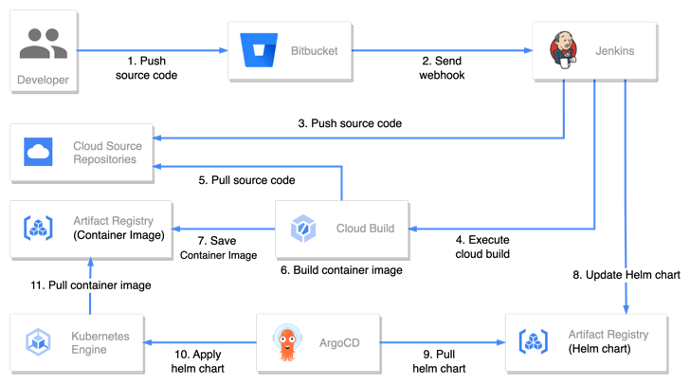
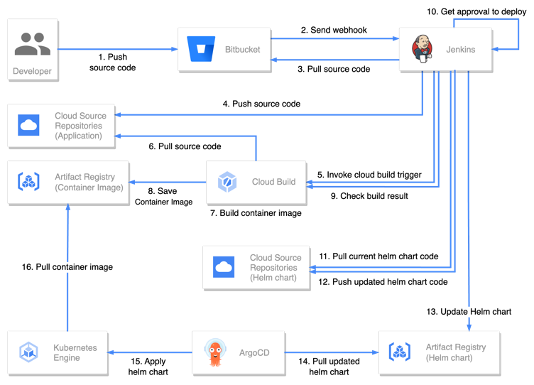
[ADD] README 최초 작성

Changed region(s): [[0.0, 0.0, 0.9888, 0.9974]]

diff --git a/README.md b/README.md
@@ -1,0 +1,101 @@
+# 위메프 CI/CD 파이프라인 및 모니터링 도구 PoC
+
+위메프 전체 시스템을 Google Cloud Platform으로 마이그레이션하는 프로젝트가 진행됨에 따라 클라우드의 이점을 살리기 위해 CI/CD를 도입하기로 했습니다.  
+기존에는 별다른 CI/CD 파이프라인 없이 개발팀에서 새로운 릴리즈 개발을 완료하면 운영팀이 배포하는 방식으로 배포했으나, 앞으로는 개발팀에서 Git 레포지토리에 소스를 push하면 빌드, 테스트, 승인 후 배포까지 자동화하는 방식으로 CI/CD 파이프라인을 구축하기로 결정되었습니다.  
+CI/CD파이프라인 구축을 위해 어떤 도구를 사용할 지 비교하기 위해 다양한 도구를 이용해 PoC를 진행하기로 했습니다.  
+
+---
+
+## Tools
+- Jenkins
+- Cloud Build
+- Artifact Registry
+- ArgoCD
+- GMP(Google Managed Prometheus)
+- Grafana Loki
+- Grafana
+
+각 도구를 선택한 이유는 아래와 같습니다.  
+Jenkins: 컨테이너 환경에 최적화된 다른 CI 도구도 많기 때문에 Jenkins를 사용한 부분에서 의문을 느낄 수 있습니다. 여기서 Jenkins를 선택한 이유는 현재 개발자들이 Jenkins를 이용하고 있고 익숙하기 때문입니다. 일단 Jenkins를 이용하고 추후에 개발자들이 쿠버네티스에 익숙해졌을 때 다른 도구로 변경하는 방향으로 진행하려고 했습니다.
+
+---
+
+## 요구 사항
+
+개발 환경 구성시에 있던 요구사항들을 정리하면 아래와 같습니다
+- 애플리케이션 컨테이너 기반으로 개발
+    - GKE Standard 사용(ver 1.25)(GKE 생성은 콘솔에서 진행)
+    - GKE는 Fully Private mode로 운영
+        - 개발자가 로컬에서 kubectl을 사용하여 쿠버네티스를 사용할 수 있어야 함
+- 애플리케이션 접속에 대한 endpoint는 LB 사용
+    - LB는 Reginal 유형
+- GKE에 애플리케이션 배포도 CI/CD 파이프라인 사용
+    - 데모 애플리케이션
+        - https://github.com/GoogleCloudPlatform/microservices-demo
+- Helm chart 차트 뮤지엄과 container image 레포지토리로는 GCP Artifact Registry를 사용
+- 애플리케이션 자동확장 기능 필수
+- 클라우드 및 애플리케이션에 대한 로깅 및 모니터링 필요
+- GCP 인프라 구축은 Terraform으로 하고 Terraform에 대한 CI/CD 파이프라인도 사용할 것
+
+---
+
+## 인프라 아키텍처
+
+![Infra-Architecture](/img/Application-CICD-pipeline.png)
+
+요구조건을 충족하는 인프라 구축을 위해 위와 같은 아키텍처로 인프라를 구성했습니다.  
+요구조건 중 개발자가 로컬에서 kubectl을 사용할 수 있어야 한다는 조건과, GKE는 private으로 운영한다는 조건을 만족시키기 위해서 bastion 서버에서 작업하도록 했습니다.  
+각종 CI/CD 도구들(Gitlab, Jenkins, ArgoCD)의 대시보드에 접근할 때는 파이프라인 구축이 완료되는 시점에는 회사의 사내망에 VPC가 전용선을 통해 연결될 예정이기 때문에 안전한 접근에 문제가 없지만 아직 전용선 연결이 되지 않았기 때문에 그 전까지는 프록시를 이용하여 임시로 접근할 수 있도록 했습니다.
+로컬에서 bastion으로는 IAP 터널링을 이용하여 트래픽을 전달했고, bastion에서는 kubectl port-forward를 이용하여 패킷을 전달하도록 하였습니다.
+
+---
+
+## Application CI/CD pipeline
+
+![Application Ci/CD pipeline](/img/Application-CICD-pipeline.png)
+
+각 단계별 동작은 아래와 같습니다.
+1. 소스코드 저장소에 작성한 소스를 push 합니다.
+2. 소스코드 저장소에서 Jenkins로 webhook을 전달합니다.
+3. Jenkins에서 소스코드를 pull합니다.
+4. Jenkins에서 먼저 Cloud Source Repository에 코드를 저장합니다. 이 과정은 소스코드를 이용하여 컨테이너를 생성하는 Cloud Build에 소스코드를 전달하는 방법으로 사용되며, 혹시 모를 소스코드 저장소의 장애에 대비하여 소스코드를 백업하는데 목적이 있습니다.
+5. Cloud Build를 trigger합니다. Cloud Build는 여러 방법으로 사용할 수 있지만, 이 프로젝트에서는 Cloud Source Repository에 있는 소스코드를 기반으로(Dockerfile포함) 컨테이너 이미지를 생성하고 이미지를 Artifact Registry에 저장하는 작업을 미리 생성해두고 필요 시 트리거하는 방식으로 사용합니다.  
+    Cloud Build도 Jenkins가 하는 CI 도구의 역할을 수행하도록 구성할 수 있지만 여기서는 단순히 컨테이너 이미지 빌드 용도로만 사용합니다.
+6. Cloud Build에서 Source Repository에 있는 소스코드를 pull합니다.
+7. 소스코드를 기반으로 컨테이너 이미지를 빌드합니다. 최상위에 위치한 Dockerfile을 기반으로 컨테이너를 생성합니다.
+8. 생성한 컨테이너 이미지를 Artifact Registry에 저장합니다.
+9. Jenkins에서 Cloud Build의 동작이 끝나는 것을 대기합니다. 동작이 끝나면 결과를 확인합니다.
+10. 배포 단계를 할 것인지 승인을 받습니다.
+11. 헬름 차트용 소스코드 레파지토리(Source Repository)에 있는 어플리케이션 배포용 helm차트를 pull합니다. 차트 뮤지엄에서 pull하고 수정하는 방식으로 구현해도 되지만 현재 CI/CD 도구로 인해 변경된 helm 차트의 내용을 개발자들이 쉽게 확인하는 용도 및 백업 용도로 레파지토리를 유지하기로 했습니다.
+13. Jenkins에서 어플리케이션 배포에 사용된 helm차트에서 컨테이너 이미지의 버전을 수정하고 차트 뮤지엄(Artifact Registry)에 push합니다.
+13. Jenkins에서 어플리케이션 배포에 사용된 helm차트에서 컨테이너 이미지의 버전을 수정하고 헬름 차트용 소스코드 레파지토리(Artifact Registry)에 push합니다.
+13. Jenkins에서 어플리케이션 배포에 사용된 helm차트에서 컨테이너 이미지의 버전을 수정하고 차트 뮤지엄(Artifact Registry)에 push합니다.
+14. ArgoCD에서 artifact registry의 최신 버전 헬름 차트를 가져옵니다. 
+15. ArgoCD가 헬름 차트의 내용을 기반으로 쿠버네티스 자원을 추가/변경/삭제합니다.
+16. 새롭게 생성되는 Pod가 사용하는 컨테이너 이미지를 Artifact Registry에서 가져와 Pod를 생성합니다.
+
+Cloud Build 사용한 이유는 Jenkins에서 컨테이너 이미지 빌드를 하게 되면 Jenkins의 자원 사용량이 많아져 워커노드를 등록해야 하는 등의 관리를 줄이기 위해서입니다.
+Jenkins에서 전반적인 CI 과정을 관리하고 개발자들은 Jenkins를 통해 모든 과정의 진행 및 결과를 확인할 수 있도록 구성하는 것을 의도했습니다.
+
+---
+
+## 로깅 및 모니터링
+
+### Prometheus
+쿠버네티스 모니터링은 GMP(Google Managed Prometheus)로 구현했습니다.
+GKE에서는 관리형 Prometheus 서비스를 제공하고 있습니다. GMP(Google Managed Prometheus)를 사용하면 Prometheus를 관리 없이 이용할 수 있습니다.  
+다만 GMP를 이용하는 경우 Prometheus에 직접 접근할 수 없고 Cloud Monitoring, Cloud Logging을 사용하여 확인해야 합니다.  
+이 프로젝트에서는 Grafana 대시보드에서 메트릭 모니터링과 어플리케이션 로그를 같이 확인할 수 있도록 구성했습니다. 이를 위해 Grafana에서 GMP에 쿼리를 날릴 수 있도록 Google에서 제공하는 프록시 서버를 이용했습니다.
+
+### Grafana Loki
+
+어플리케이션 로그 수집은 Grafana Loki를 이용했습니다.  
+메트릭 수집은 promtail을 이용했습니다. promtail을 DaemonSet으로 생성하였고,GKE가 기본적으로 컨테이너의 stdout을 저장하는 경로인 /var/lib/docker/containers에 있는 로그 파일들을 수집하도록 설정했습니다.
+
+### Grafana
+
+GMP(Google Managed Prometheus)와 Grafana Loki를 데이터 소스로 대시보드를 구성했습니다.
+
+---
+
+END
